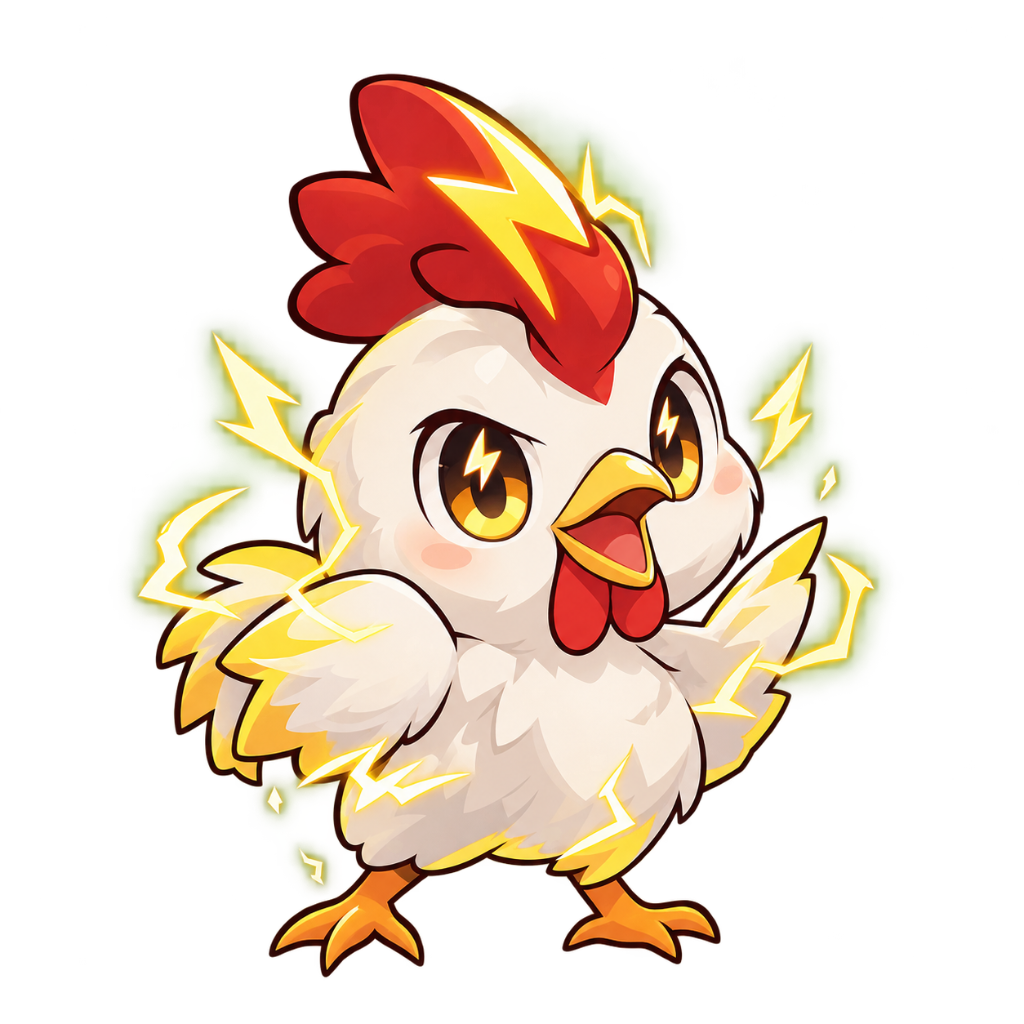
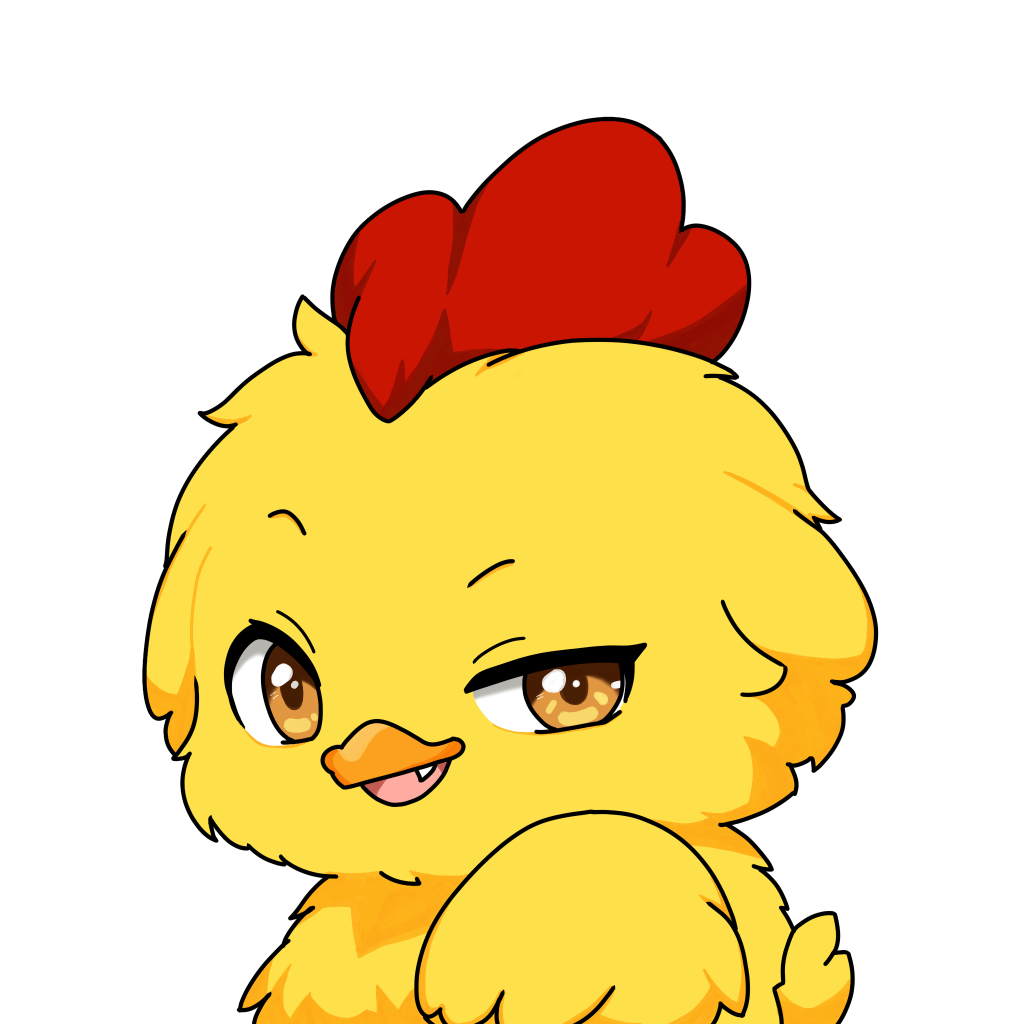
new mascot and custom counter

diff --git a/frontend/src/pages/Admin.jsx b/frontend/src/pages/Admin.jsx
@@ -639,6 +639,13 @@ function Admin() {
     }
   };
 
+  const handleKeyDownEditor = (e) => {
+    if ((e.ctrlKey || e.metaKey) && e.key.toLowerCase() === 's') {
+      e.preventDefault();
+      handleSave(e);
+    }
+  };
+
   // Save / Update
   const handleSave = async (e) => {
     if (e) e.preventDefault();
@@ -1482,6 +1489,28 @@ function Admin() {
                   >
                     คัดลอก
                   </button>
+                  <button
+                    type="button"
+                    onClick={handleSave}
+                    disabled={isLoading}
+                    className="code-action-btn"
+                    title="บันทึกไฟล์นี้ทันที (Ctrl+S)"
+                    style={{
+                      background: 'var(--accent-color, #f59e0b)',
+                      color: '#000000',
+                      fontWeight: 800,
+                      display: 'inline-flex',
+                      alignItems: 'center',
+                      gap: '5px',
+                      padding: '4px 10px',
+                      borderRadius: '4px',
+                      border: 'none',
+                      cursor: isLoading ? 'wait' : 'pointer'
+                    }}
+                  >
+                    {isLoading ? <Loader2 size={13} className="spin" /> : <Save size={13} />}
+                    <span>{isLoading ? 'กำลังบันทึก...' : 'บันทึก (Ctrl+S)'}</span>
+                  </button>
                 </div>
               </div>
 
@@ -1491,6 +1520,7 @@ function Admin() {
                   placeholder="วางโค้ด HTML ที่นี่..."
                   value={formData.html}
                   onChange={e => setFormData(p => ({ ...p, html: e.target.value }))}
+                  onKeyDown={handleKeyDownEditor}
                 />
               )}
 
@@ -1500,6 +1530,7 @@ function Admin() {
                   placeholder="วางโค้ด CSS ที่นี่..."
                   value={formData.css}
                   onChange={e => setFormData(p => ({ ...p, css: e.target.value }))}
+                  onKeyDown={handleKeyDownEditor}
                 />
               )}
 
@@ -1509,6 +1540,7 @@ function Admin() {
                   placeholder="วางโค้ด JavaScript ที่นี่..."
                   value={formData.js}
                   onChange={e => setFormData(p => ({ ...p, js: e.target.value }))}
+                  onKeyDown={handleKeyDownEditor}
                 />
               )}
 
@@ -1518,8 +1550,83 @@ function Admin() {
                   placeholder="วาง Fields JSON Schema ที่นี่..."
                   value={formData.fields}
                   onChange={e => setFormData(p => ({ ...p, fields: e.target.value }))}
+                  onKeyDown={handleKeyDownEditor}
                 />
               )}
+            </div>
+
+            {/* Bottom Action Bar for Code Editor */}
+            <div style={{
+              display: 'flex',
+              alignItems: 'center',
+              justifyContent: 'space-between',
+              flexWrap: 'wrap',
+              gap: '1rem',
+              marginTop: '1.25rem',
+              marginBottom: '1.5rem',
+              padding: '1.1rem 1.35rem',
+              background: 'linear-gradient(135deg, rgba(245, 158, 11, 0.08) 0%, rgba(15, 23, 42, 0.7) 100%)',
+              border: '1px solid rgba(245, 158, 11, 0.3)',
+              borderRadius: 'var(--radius-sm, 12px)',
+              boxShadow: '0 8px 24px rgba(0, 0, 0, 0.3)'
+            }}>
+              <div style={{ display: 'flex', alignItems: 'center', gap: '0.75rem', flexWrap: 'wrap' }}>
+                <div style={{ display: 'flex', alignItems: 'center', gap: '0.45rem' }}>
+                  <span style={{ fontSize: '0.85rem', color: 'var(--text-secondary)' }}>
+                    แก้ไขไฟล์:
+                  </span>
+                  <code style={{
+                    fontSize: '0.85rem',
+                    color: '#f59e0b',
+                    fontWeight: 800,
+                    background: 'rgba(245, 158, 11, 0.15)',
+                    padding: '2px 8px',
+                    borderRadius: '4px',
+                    border: '1px solid rgba(245, 158, 11, 0.3)'
+                  }}>
+                    {activeTab === 'fields' ? 'fields.json' : `${activeTab}.txt`}
+                  </code>
+                </div>
+                <span style={{
+                  fontSize: '0.74rem',
+                  color: 'var(--text-muted)',
+                  background: 'rgba(255, 255, 255, 0.06)',
+                  padding: '3px 8px',
+                  borderRadius: '4px',
+                  border: '1px solid rgba(255, 255, 255, 0.1)'
+                }}>
+                  💡 กด Ctrl+S เพื่อบันทึกได้ทันที
+                </span>
+              </div>
+
+              <div style={{ display: 'flex', alignItems: 'center', gap: '0.75rem' }}>
+                {selectedId && !isCreatingNew && (
+                  <button
+                    type="button"
+                    onClick={() => setShowPreviewModal(true)}
+                    className="btn-island"
+                    style={{ padding: '0.65rem 1.25rem', fontSize: '0.85rem' }}
+                  >
+                    <span>ดูตัวอย่างสด (Live Preview)</span>
+                  </button>
+                )}
+                <button
+                  type="button"
+                  onClick={handleSave}
+                  disabled={isLoading}
+                  className="btn-island accent"
+                  style={{
+                    padding: '0.65rem 1.75rem',
+                    fontSize: '0.9rem',
+                    fontWeight: 800,
+                    boxShadow: '0 4px 16px rgba(245, 158, 11, 0.35)',
+                    cursor: isLoading ? 'wait' : 'pointer'
+                  }}
+                >
+                  {isLoading ? <Loader2 size={16} className="spin" /> : <Save size={16} />}
+                  <span>{isLoading ? 'กำลังบันทึก...' : isCreatingNew ? 'สร้าง Widget ใหม่' : 'บันทึกการเปลี่ยนแปลง'}</span>
+                </button>
+              </div>
             </div>
 
             {/* Danger Zone: Delete Widget */}
